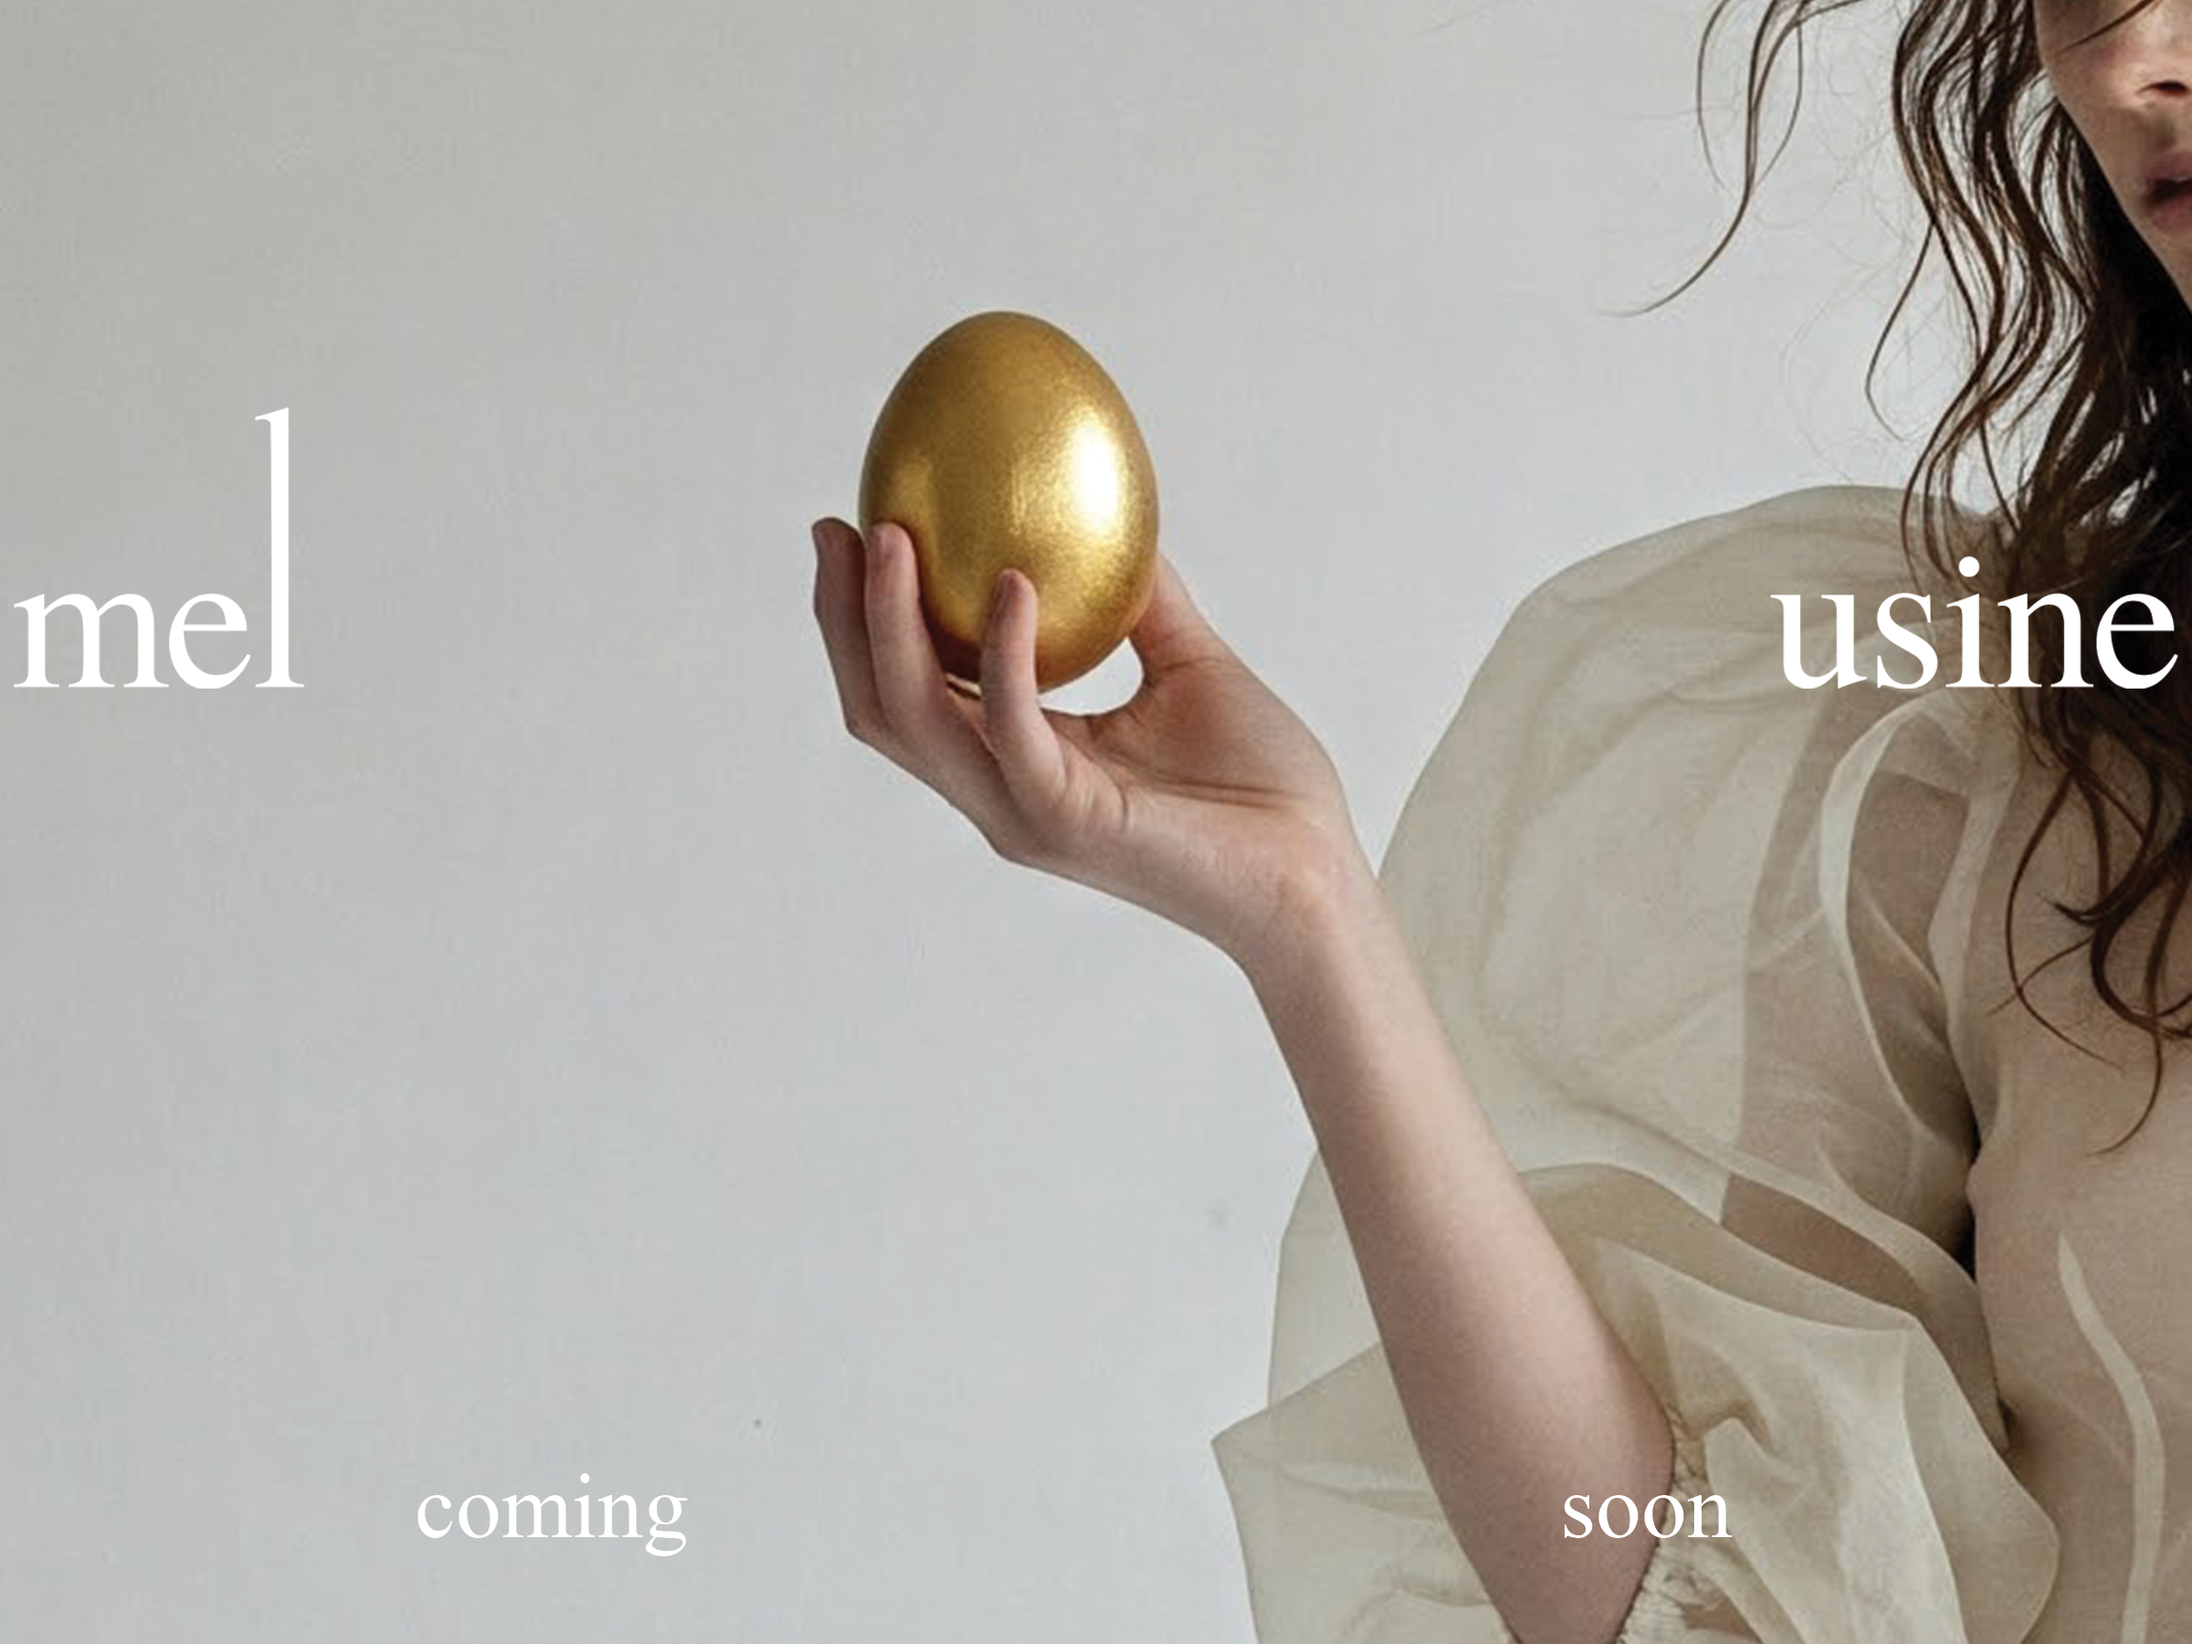
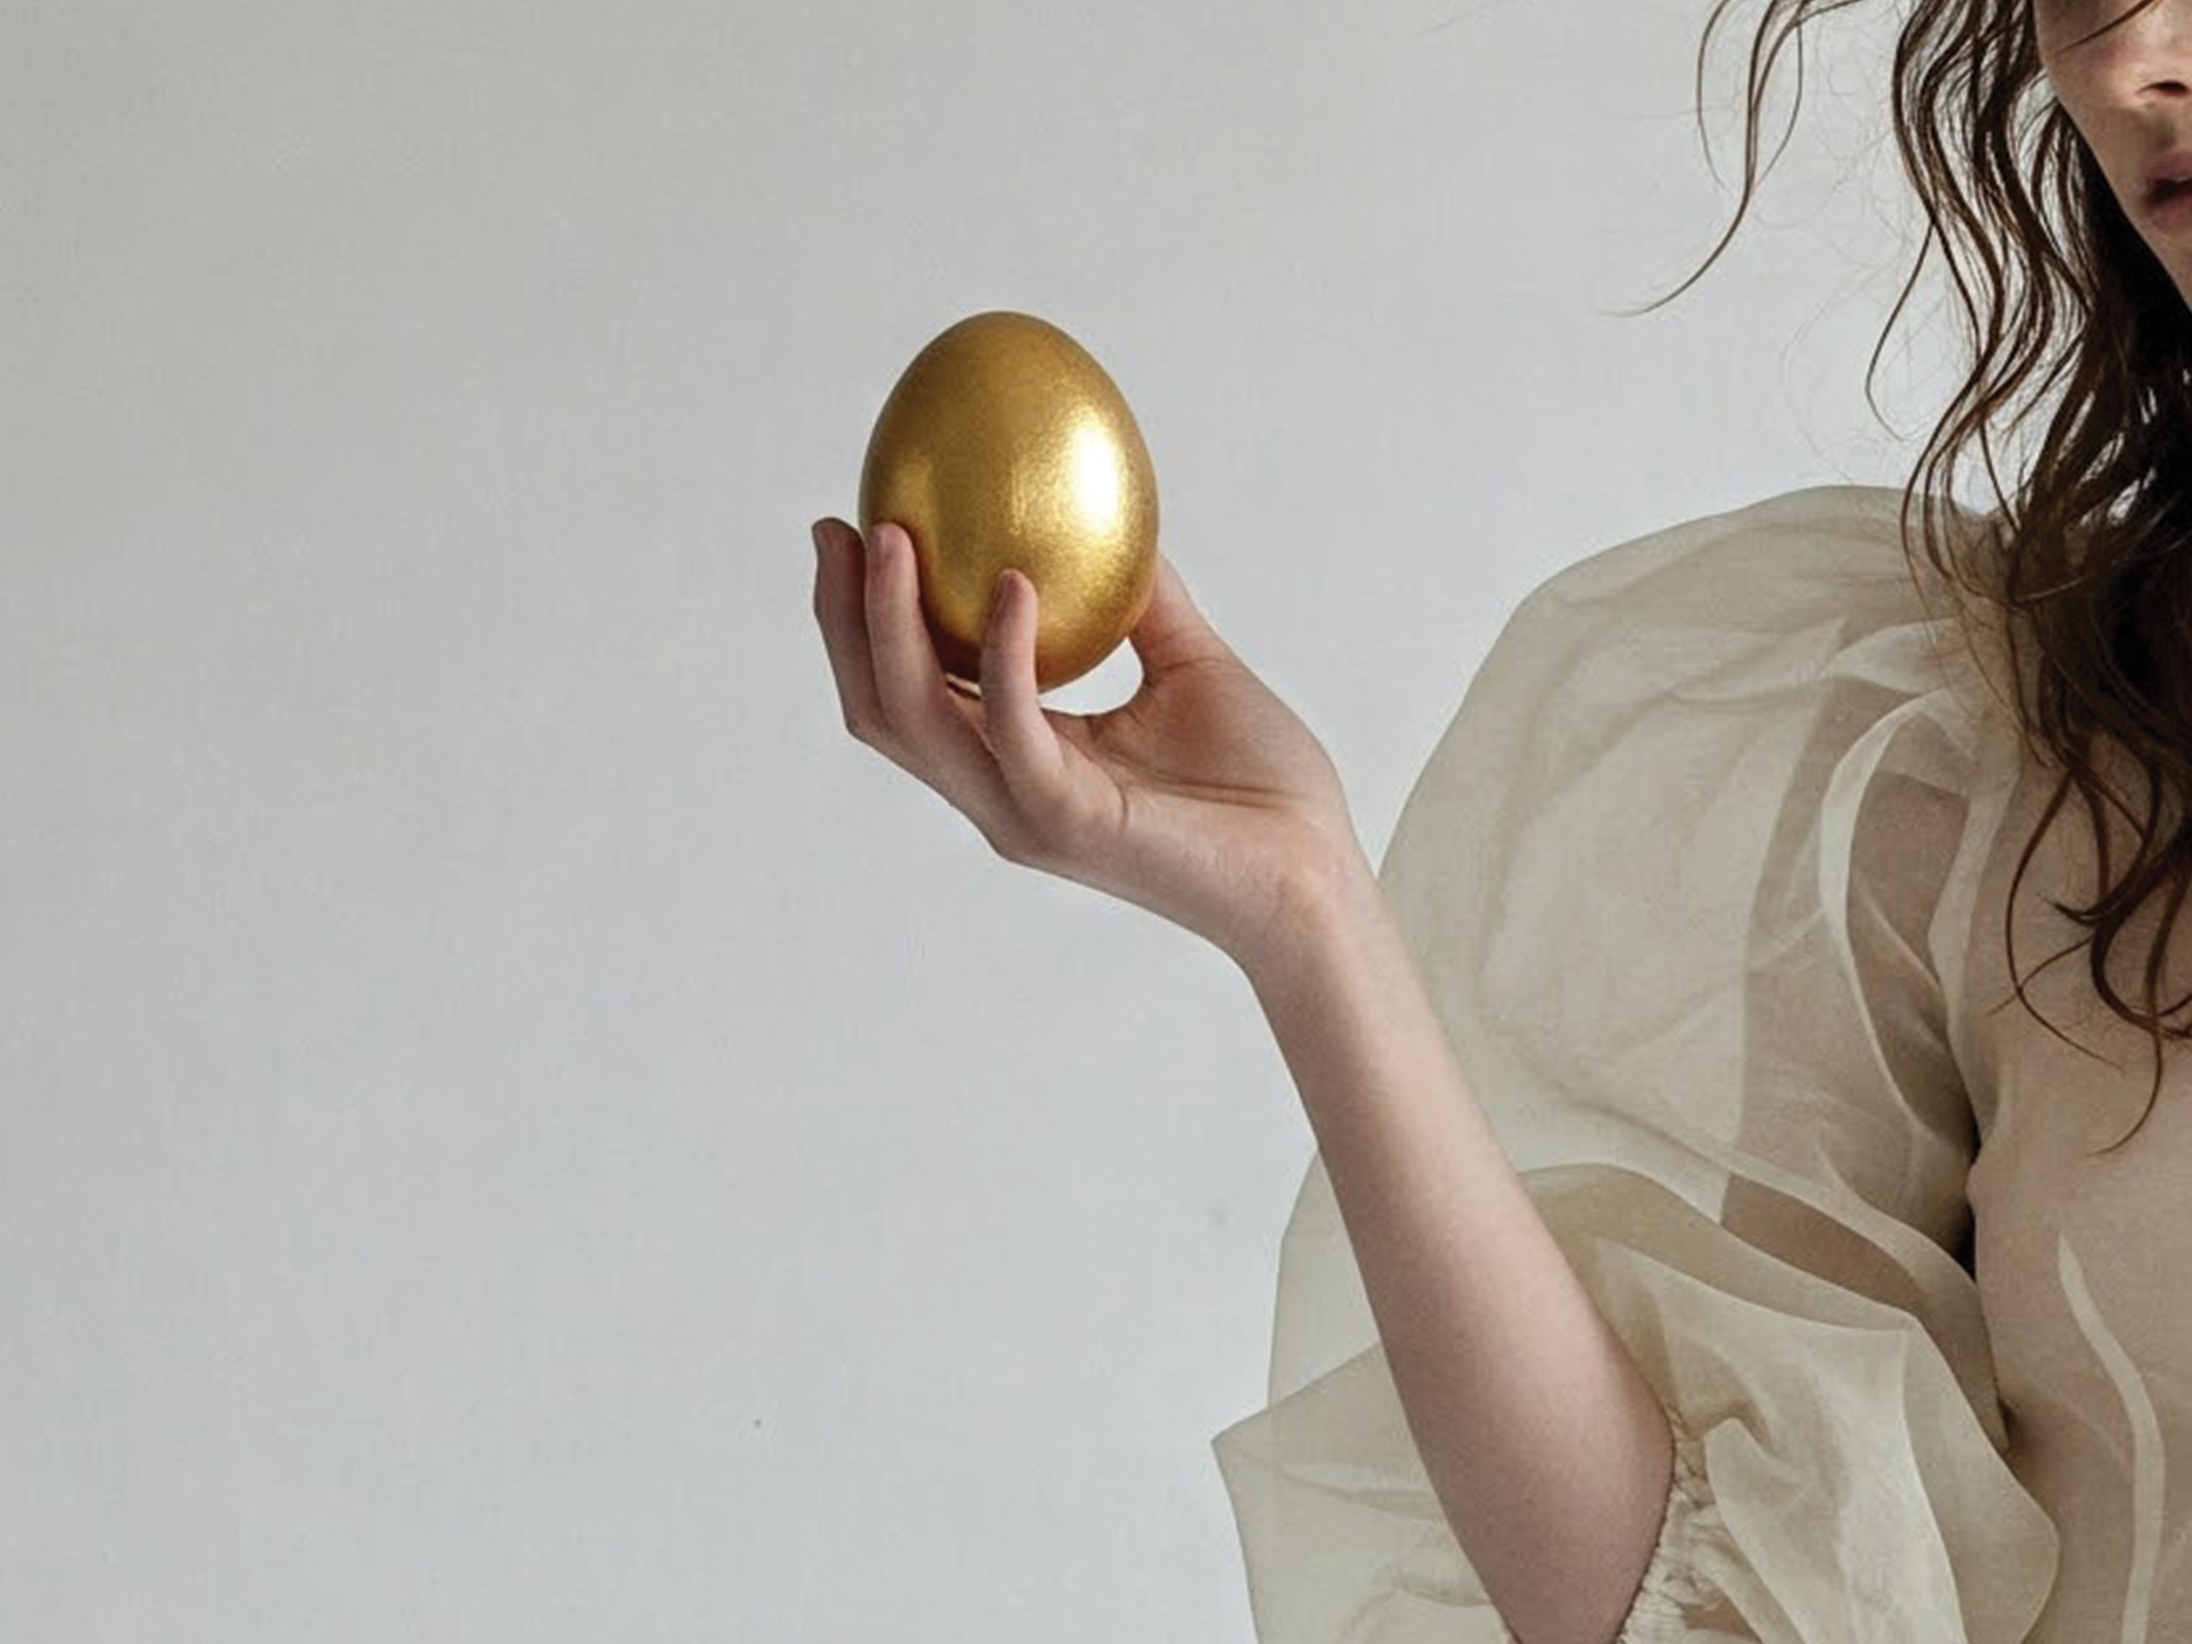
new svgs

diff --git a/index.html b/index.html
@@ -11,9 +11,39 @@
 <body>
   <header>
     <h1 style="display:none;">mel usine</h1>
+    <div class="mel">
+      <?xml version="1.0" encoding="UTF-8"?>
+      <svg id="Layer_1" data-name="Layer 1" xmlns="http://www.w3.org/2000/svg" viewBox="0 0 402.27374 391.07813">
+        <path fill="#fff"
+          d="M0,384.17466c7.18132-.64318,11.96657-1.84035,14.36092-3.59152,3.68242-2.66877,5.52448-8.00802,5.52448-16.01775v-71.39466c0-6.81084-.89702-11.27537-2.69278-13.39357s-4.76468-3.17645-8.90675-3.17645c-1.93297,0-3.38398.09262-4.34961.27614-.96734.18524-2.09591.50597-3.38398.96563v-4.83328l9.9427-3.31366c3.5898-1.19546,9.48133-3.35997,17.67629-6.49011,8.19154-3.12843,12.51885-4.69607,12.98022-4.69607.45966,0,.7358.23154.82842.6912.0909.46137.13893,1.3361.13893,2.62417v18.64192c9.11257-8.28587,16.98509-14.01617,23.61241-17.19262,6.62904-3.17645,13.4416-4.76468,20.43768-4.76468,9.48133,0,17.0314,3.22447,22.6485,9.66656,2.94491,3.50061,5.38556,8.24128,7.31853,14.2237,6.81084-6.90346,12.74868-12.01288,17.8135-15.32826,8.74553-5.70629,17.67629-8.56201,26.79058-8.56201,14.82058,0,24.71697,6.03217,29.68917,18.09136,2.85229,6.81427,4.281,17.58539,4.281,32.31335v57.30817c0,6.53814,1.4493,10.97865,4.34961,13.32497,2.90031,2.34803,8.12293,3.89167,15.673,4.62746v3.5898h-62.27866v-3.86594c8.00973-.7358,13.27866-2.34803,15.81193-4.83328,2.52984-2.48696,3.79733-7.54836,3.79733-15.19105v-59.51728c0-8.92905-.96734-15.51178-2.90031-19.74819-3.40799-7.54664-10.08163-11.32339-20.02433-11.32339-5.98414,0-11.92198,1.98099-17.8135,5.93783-3.40628,2.30344-7.59467,5.98586-12.56687,11.04897v70.70174c0,7.45745,1.31209,13.11915,3.93626,16.9868,2.62417,3.86594,8.16924,5.93783,16.64035,6.21397v3.5898h-63.38493v-3.5898c8.74553-1.10455,14.31461-3.22276,16.70895-6.3529,2.39434-3.12843,3.59152-10.86202,3.59152-23.19906v-38.58907c0-14.14824-.92103-23.88512-2.76138-29.21408-3.03924-9.02167-9.48304-13.53422-19.33312-13.53422-5.6171,0-11.14159,1.54363-16.57174,4.62746-5.43358,3.08555-10.21884,7.11099-14.36092,12.08149v75.53674c0,6.9978,1.21775,11.83108,3.65841,14.49984,2.43894,2.6722,7.75589,4.05289,15.95086,4.14379v3.5898H0v-3.5898Z" />
+        <path fill="#fff"
+          d="M308.64221,271.69711c9.75575,8.97707,14.63705,21.70517,14.63705,38.18258h-87.68855c.91932,21.3124,5.7526,36.83619,14.49984,46.57307,8.74553,9.73517,19.10158,14.60275,31.06987,14.60275,9.66656,0,17.81522-2.52469,24.44254-7.57751,6.62904-5.0511,12.75039-12.21698,18.3675-21.49592l4.83328,1.65512c-3.77675,11.71273-10.84144,22.54559-21.19749,32.50373-10.35777,9.95985-23.03955,14.93721-38.04537,14.93721-17.30925,0-30.68053-6.53471-40.11555-19.60926-9.43673-13.07113-14.15338-28.12325-14.15338-45.15465,0-18.50471,5.47475-34.47615,16.43281-47.91946,10.95464-13.43988,25.22294-20.16154,42.80833-20.16154,12.98022,0,24.34993,4.48854,34.10911,13.4639ZM242.4959,282.26241c-2.94834,4.97049-5.06483,11.23249-6.3529,18.78085h58.27551c-1.01537-9.20519-2.7631-16.06406-5.24835-20.5766-4.51083-8.10063-12.06091-12.15181-22.64679-12.15181-10.49498,0-18.50471,4.64976-24.02748,13.94757Z" />
+        <path fill="#fff"
+          d="M335.43794,383.89853c8.56029-.82842,14.36092-2.55557,17.39844-5.17974,3.03924-2.62246,4.55714-7.75417,4.55714-15.39686v-134.91509c0-6.07676-.50597-204.14781-1.5179-206.44953-1.84378-3.86765-5.57251-5.80062-11.18618-5.80062-1.28979,0-2.69278.13893-4.2124.41507-1.5179.27614-3.43029.68949-5.7303,1.24177v-4.55714c12.42795-3.31366,27.38745-7.73188,44.88022-13.25636.64318,0,1.03595.27614,1.17316.82842.13893.55228.20753,1.74945.20753,3.59152v359.45427c0,8.00973,1.38069,13.18776,4.14208,15.53579,2.7631,2.34803,8.46939,3.84536,17.12402,4.48854v3.86594h-66.8358v-3.86594Z" />
+      </svg>
+    </div>
+    <div class="usine">
+      <?xml version="1.0" encoding="UTF-8"?>
+      <svg id="Layer_1" data-name="Layer 1" xmlns="http://www.w3.org/2000/svg" viewBox="0 0 565.37382 184.54541">
+        <path fill="#fff"
+          d="M41.29042,53.35905v88.37804c0,6.262.87301,11.2788,2.62417,15.05212,3.40456,6.9978,9.66485,10.49498,18.77913,10.49498,6.26028,0,12.38164-2.0719,18.3675-6.21397,3.40456-2.30001,6.85715-5.47646,10.35605-9.52764v-75.67567c0-7.08698-1.38069-11.73674-4.14208-13.94757-2.7631-2.20911-8.28587-3.54178-16.57174-4.00315v-4.55714h44.60408v97.21618c0,6.262,1.12685,10.56358,3.38398,12.91162,2.2537,2.34803,7.01838,3.38398,14.29231,3.10784v3.86594c-5.06483,1.38069-8.79355,2.41664-11.18618,3.10784-2.39434.68949-6.39921,1.95698-12.0146,3.79733-2.39434.82842-7.64269,2.80941-15.74161,5.93783-.46137,0-.73751-.20753-.82842-.6226-.09262-.41335-.13893-.89702-.13893-1.4493v-22.23344c-6.26028,7.45745-11.96829,12.98194-17.1223,16.57174-7.82621,5.52277-16.11208,8.28587-24.85761,8.28587-8.00973,0-15.55809-2.85743-22.64679-8.5723-7.18132-5.62396-10.77112-15.0727-10.77112-28.34622v-71.75999c0-7.30824-1.56593-12.1964-4.69435-14.6645-2.0273-1.55049-6.3529-2.64647-12.98194-3.28793v-3.86594h41.29042Z" />
+        <path fill="#fff"
+          d="M148.0411,137.73222h4.55714c2.11134,10.49498,4.9602,18.55273,8.54143,24.16641,6.42837,10.31146,15.8428,15.46719,28.24331,15.46719,6.88631,0,12.32847-1.91067,16.32476-5.73202,3.99629-3.81791,5.99443-8.76783,5.99443-14.84459,0-3.86594-1.15258-7.59467-3.45259-11.18447-2.30344-3.59152-6.3529-7.0887-12.15009-10.49498l-15.46204-8.83815c-11.32168-6.07676-19.65386-12.19812-24.99654-18.3675-5.34268-6.16595-8.01488-13.43988-8.01488-21.81837,0-10.30974,3.68242-18.78085,11.04725-25.40817,7.36484-6.62904,16.61633-9.9427,27.75792-9.9427,4.87787,0,10.23942.92103,16.08635,2.76138,5.84522,1.84207,9.13658,2.76138,9.87409,2.76138,1.65683,0,2.85229-.22811,3.59152-.68949.7358-.45966,1.38069-1.19546,1.93297-2.20911h3.31366l.96734,38.52732h-4.281c-1.84378-8.92905-4.32903-15.88054-7.45745-20.85274-5.70972-9.20347-13.94757-13.80864-24.71868-13.80864-6.44552,0-11.50863,1.98099-15.18933,5.93783-3.68413,3.96027-5.52448,8.61003-5.52448,13.94757,0,8.47111,6.3529,16.01775,19.05699,22.64679l18.22857,9.80549c19.60926,10.68021,29.41304,23.10816,29.41304,37.28384,0,10.86373-4.06661,19.74819-12.20155,26.65165-8.13494,6.90518-18.77227,10.35777-31.912,10.35777-5.51591,0-11.76419-.92103-18.74826-2.7631-6.98407-1.84035-11.12101-2.76138-12.40737-2.76138-1.10455,0-2.06847.39277-2.89517,1.17487-.82842.78211-1.4716,1.72544-1.92954,2.82999h-3.5898v-44.60408Z" />
+        <path fill="#fff"
+          d="M243.19396,177.36581c9.84837-.91932,16.06406-2.60016,18.64192-5.04081,2.57615-2.43894,3.86594-9.04568,3.86594-19.8168v-65.87018c0-5.98243-.41335-10.12622-1.24177-12.42795-1.38241-3.77332-4.281-5.6617-8.70093-5.6617-1.01365,0-2.00158.09262-2.96892.27614-.96563.18524-3.75102.92103-8.35448,2.20911v-4.281l5.93783-1.93297c16.11037-5.24663,27.34286-9.20519,33.69576-11.87567,2.57615-1.10455,4.23298-1.65683,4.97049-1.65683.18352.64489.27614,1.3361.27614,2.0719v99.14915c0,10.49498,1.26406,17.07771,3.79733,19.74819,2.53156,2.67048,8.26186,4.37362,17.19262,5.10942v3.86594h-67.11194v-3.86594ZM265.14954,4.26052c2.62657-2.70161,5.83659-4.11992,9.63016-4.25194,4.01135-.1396,8.02235,1.43047,10.84209,4.28695,2.65872,2.69336,4.02778,5.95583,4.10569,9.78592.07986,3.9263-1.50878,7.81502-4.31863,10.55854-2.78767,2.72186-6.13503,4.08195-10.04046,4.08195-4.60296,0-8.37339-1.80235-11.31132-5.40959-1.72129-2.11343-2.77636-4.75718-2.99261-7.47428-.36177-4.54539.99994-8.40615,4.08509-11.57754Z" />
+        <path fill="#fff"
+          d="M315.69661,177.36581c6.53642-.82842,11.11586-2.46295,13.74003-4.9036,2.62417-2.43722,3.93626-7.89139,3.93626-16.36249v-70.15118c0-5.8435-.55228-9.95471-1.65683-12.33018-1.75116-3.47146-5.34096-5.20718-10.77112-5.20718-.83013,0-1.68084.04631-2.55557.13721-.87644.09262-1.95698.23154-3.24506.41507v-4.83328c3.77332-1.10455,12.70409-3.95856,26.79058-8.56201l12.98022-4.281c.64318,0,1.03595.22983,1.17316.68949.13893.46309.20753,1.10627.20753,1.93468v20.29875c8.45395-7.91711,15.06927-13.34727,19.84767-16.29389,7.16931-4.51083,14.61133-6.76797,22.3312-6.76797,6.24828,0,11.94428,1.79576,17.09143,5.38556,9.92212,6.9978,14.88575,19.47205,14.88575,37.42448v64.48777c0,6.62904,1.32238,11.41601,3.97228,14.36263s7.07841,4.46624,13.28895,4.55714v3.86594h-58.965v-3.86594c6.71823-.91932,11.4143-2.78368,14.08478-5.59309,2.66877-2.80769,4.00487-8.90675,4.00487-18.29718v-58.965c0-7.91711-1.46473-14.47583-4.39592-19.67958-2.92947-5.19861-8.33046-7.8022-16.20127-7.8022-5.40271,0-10.89461,1.84378-16.47912,5.52448-3.11299,2.11821-7.14187,5.6171-12.08492,10.49498v77.33078c0,6.62904,1.4716,11.07127,4.41993,13.32668,2.94491,2.25713,7.59467,3.4766,13.94585,3.66012v3.86594h-60.34569v-3.86594Z" />
+        <path fill="#fff"
+          d="M545.21228,65.16439c9.75575,8.97707,14.63705,21.70517,14.63705,38.18258h-87.68855c.91932,21.3124,5.7526,36.83619,14.49984,46.57307,8.74553,9.73517,19.10158,14.60275,31.06987,14.60275,9.66656,0,17.81522-2.52469,24.44254-7.57751,6.62904-5.0511,12.75039-12.21698,18.3675-21.49592l4.83328,1.65512c-3.77675,11.71273-10.84144,22.54559-21.19749,32.50373-10.35777,9.95985-23.03955,14.93721-38.04537,14.93721-17.30925,0-30.68053-6.53471-40.11555-19.60926-9.43673-13.07113-14.15338-28.12325-14.15338-45.15465,0-18.50471,5.47475-34.47615,16.43281-47.91946,10.95464-13.43988,25.22294-20.16154,42.80833-20.16154,12.98022,0,24.34993,4.48854,34.10911,13.4639ZM479.06597,75.72969c-2.94834,4.97049-5.06483,11.23249-6.3529,18.78085h58.27551c-1.01537-9.20519-2.7631-16.06406-5.24835-20.5766-4.51083-8.10063-12.06091-12.15181-22.64679-12.15181-10.49498,0-18.50471,4.64976-24.02748,13.94757Z" />
+      </svg>
+    </div>
   </header>
 
   <main>
+    <div class="footer">
+      <p>coming</p>
+      <p>soon</p>
+    </div>
   </main>
 
   <footer>

diff --git a/style.css b/style.css
@@ -1,8 +1,60 @@
 body {
-  background-image: url('public/mel-usine-bg.png');
+  background-image: url('public/mel-usine.png');
   background-position: center;
   background-repeat: no-repeat;
   background-size: cover;
   height: 100vh;
+  width: 100vw;
+}
+
+svg {
+  fill: white;
+  max-width: 800px;
+}
+
+.mel {
+  position: absolute;
+  left: 0;
+  width: 130px;
+  display: block;
+  bottom: 50%
+}
+
+.usine {
+  position: absolute;
+  right: 0;
+  width: 184px;
+  display: block;
+  bottom: 50%
+}
+
+p {
+  font-family: 'Times New Roman', Times, serif;
+  color: white;
+  font-size: 40px;
+}
+
+.footer {
+  align-items: center;
+  display: flex;
+  justify-content: space-between;
+  left: 0;
+  position: absolute;
+  right: 0;
+  bottom: 10%;
   width: 100%;
+}
+
+@media (min-width: 860px) {
+  .mel {
+    width: 230px;
+  }
+
+  .usine {
+    width: 327px;
+  }
+
+  p {
+    font-size: 60px;
+  }
 }
